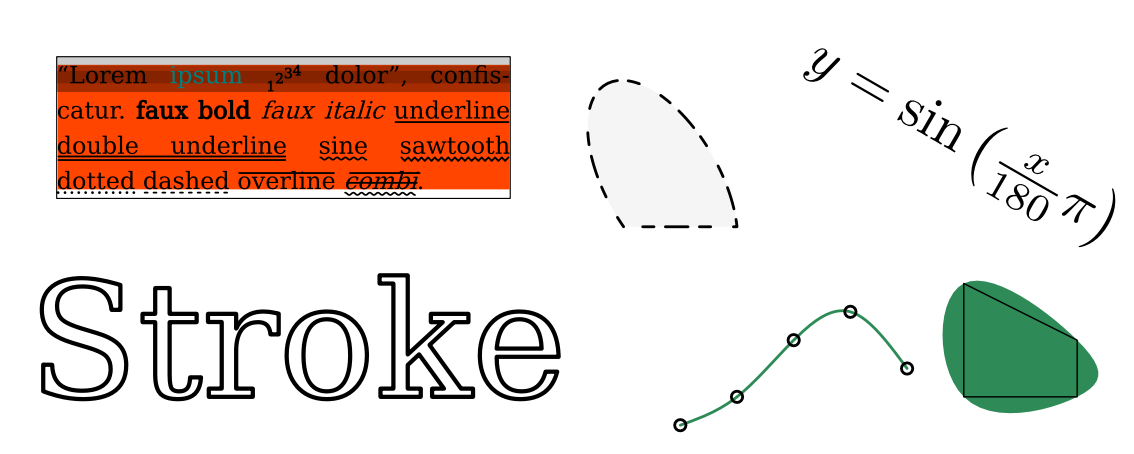
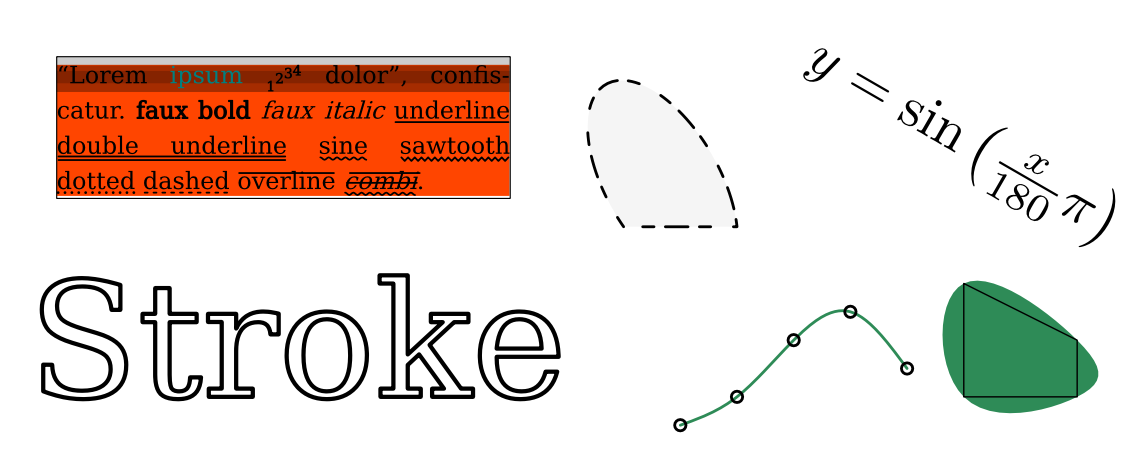
Add text decoration to SVG

Changed region(s): [[0.0309, 0.4009, 0.463, 0.4317]]

diff --git a/text.go b/text.go
@@ -361,17 +361,20 @@ func (t *Text) Bounds() Rect {
 	if len(t.lines) == 0 || len(t.lines[0].lineSpans) == 0 {
 		return Rect{}
 	}
-	x0, y0, x1, y1 := math.Inf(1.0), math.Inf(1.0), math.Inf(-1.0), math.Inf(-1.0)
+	r := Rect{}
 	for _, line := range t.lines {
 		for _, ls := range line.lineSpans {
 			spanBounds := ls.span.Bounds(ls.w)
-			x0 = math.Min(x0, ls.dx+spanBounds.X)
-			x1 = math.Max(x1, ls.dx+spanBounds.X+spanBounds.W)
-			y0 = math.Min(y0, line.y+spanBounds.Y)
-			y1 = math.Max(y1, line.y+spanBounds.H+spanBounds.Y)
+			spanBounds = spanBounds.Move(Point{ls.dx, line.y})
+			r = r.Add(spanBounds)
+		}
+		for _, ds := range line.decoSpans {
+			spanBounds := ds.ff.Decorate(ds.x1 - ds.x0).Bounds()
+			spanBounds = spanBounds.Move(Point{ds.x0, line.y})
+			r = r.Add(spanBounds)
 		}
 	}
-	return Rect{x0, y0, x1 - x0, y1 - y0}
+	return r
 }
 
 // ToPath makes a path out of the text, with x,y the top-left point of the rectangle that fits the text (ie. y is not the text base)
@@ -401,6 +404,7 @@ func (t *Text) WriteSVG(w io.Writer, x, y, rot float64) {
 		fmt.Fprintf(w, `" transform="rotate(%g,%g,%g)`, -rot, x, y)
 	}
 	fmt.Fprintf(w, `">`)
+	decorations := []pathLayer{}
 	for _, line := range t.lines {
 		for _, ls := range line.lineSpans {
 			switch span := ls.span.(type) {
@@ -431,8 +435,17 @@ func (t *Text) WriteSVG(w io.Writer, x, y, rot float64) {
 				panic("unsupported span type")
 			}
 		}
+		for _, ds := range line.decoSpans {
+			deco := ds.ff.Decorate(ds.x1 - ds.x0)
+			deco.Translate(x+ds.x0, -y+line.y)
+			decorations = append(decorations, pathLayer{deco, pathState{fillColor: ds.color}})
+		}
 	}
 	fmt.Fprintf(w, `</text>`)
+
+	for _, l := range decorations {
+		l.WriteSVG(w, 0.0)
+	}
 }
 
 ////////////////////////////////////////////////////////////////

diff --git a/util.go b/util.go
@@ -167,6 +167,12 @@ type Rect struct {
 	X, Y, W, H float64
 }
 
+func (r Rect) Move(p Point) Rect {
+	r.X += p.X
+	r.Y += p.Y
+	return r
+}
+
 func (r Rect) Add(q Rect) Rect {
 	if q.W == 0.0 || q.H == 0 {
 		return r
